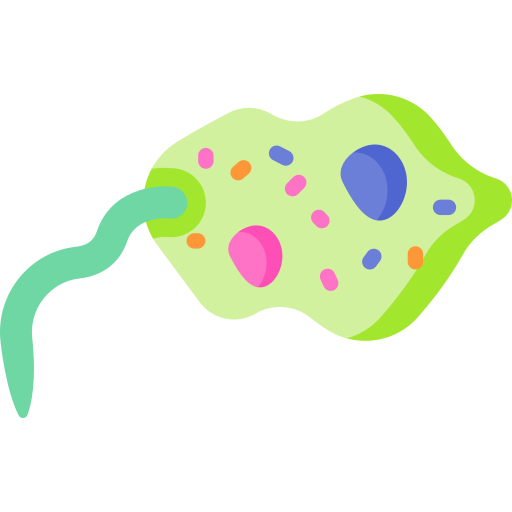
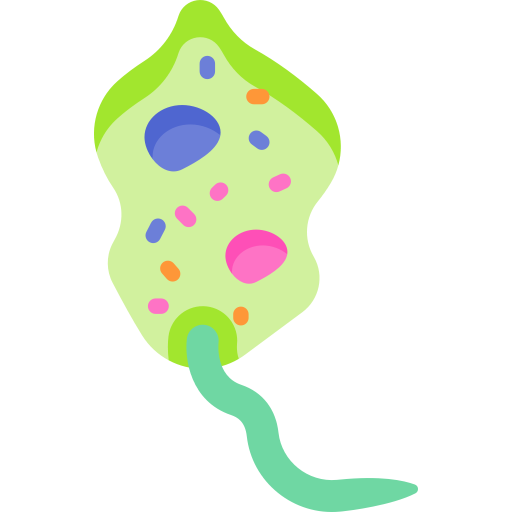
flagella rotates with the cell

diff --git a/core/src/main/java/cellcorp/gameofcells/objects/Cell.java b/core/src/main/java/cellcorp/gameofcells/objects/Cell.java
@@ -466,25 +466,40 @@ public class Cell {
 
             // New calculations for better flagella positioning
             float flagellaLength = cellSize * 0.5f;// Adjust length as needed
-            float flagellaWidth = cellSize * 0.3f; // Adjust width as needed
+            float flagellaWidth = cellSize * 0.15f; // Adjust width as needed
             float pivotX = centerX + cellRadius; // Start at cell edge
             float pivotY = centerY; // Center vertically
 
             // Calculate position so only the tail sticks out
-            float drawX = pivotX - flagellaLength * 0.7f; // Adjust position
-            float drawY = pivotY - flagellaWidth / 2; // Center vertically
+//            float drawX = pivotX - flagellaLength * 0.7f; // Adjust position
+//            float drawY = pivotY - flagellaWidth / 2; // Center vertically
+//            float drawX = pivotX - flagellaLength * 0.7f; // Adjust position
+//            float drawY = pivotY - flagellaWidth / 2; // Center vertically
+
+            if(flagellaTextureRegion == null ) {
+                flagellaTextureRegion = new TextureRegion(flagellaTexture);
+            }
+
+            float flagX = centerX - flagellaWidth / 2;
+            float flagY = centerY - flagellaLength / 2  - cellRadius * 0.7f;
+
+            float originX = centerX - flagX;
+            float originY = centerY - flagY;
+
+            batch.draw(flagellaTextureRegion, flagX, flagY, originX, originY, flagellaWidth,flagellaLength,1f,1f,cellRotation);
 
 
-            batch.draw(flagellaTexture,
-                    drawX, drawY, // Position
-                    flagellaLength * 0.7f, flagellaWidth/2, // Size
-                    flagellaLength, flagellaWidth, // Size
-                    1, 1, // Scale
-                    flagellaRotation, // Rotation
-                    0, 0, // Texture region
-                    flagellaTexture.getWidth(), flagellaTexture.getHeight(), // Texture region size
-                    true, // Flip X
-                    false); // Flip Y
+            // TODO: Guess I didn't need texture regions, will fix before final commit.
+//            batch.draw(flagellaTexture,
+//                    drawX, drawY, // Position
+//                    flagellaLength * 0.7f, flagellaWidth/2, // Size
+//                    flagellaLength, flagellaWidth, // Size
+//                    1, 1, // Scale
+//                    flagellaRotation, // Rotation
+//                    0, 0, // Texture region
+//                    flagellaTexture.getWidth(), flagellaTexture.getHeight(), // Texture region size
+//                    true, // Flip X
+//                    false); // Flip Y
         }
 
         // Draw nucleus (center with pulse effect)
@@ -500,10 +515,6 @@ public class Cell {
             float nukeY = centerY - nucleusSize / 2;
             batch.draw(nucleusTextureRegion, nukeX, nukeY, centerX-nukeX, centerY-nukeY, nucleusSize,nucleusSize,1f,1f,cellRotation);
 
-//            batch.draw(nucleusTexture,
-//                centerX - nucleusSize / 2,
-//                centerY - nucleusSize / 2,
-//                nucleusSize, nucleusSize);
         }
 
 
